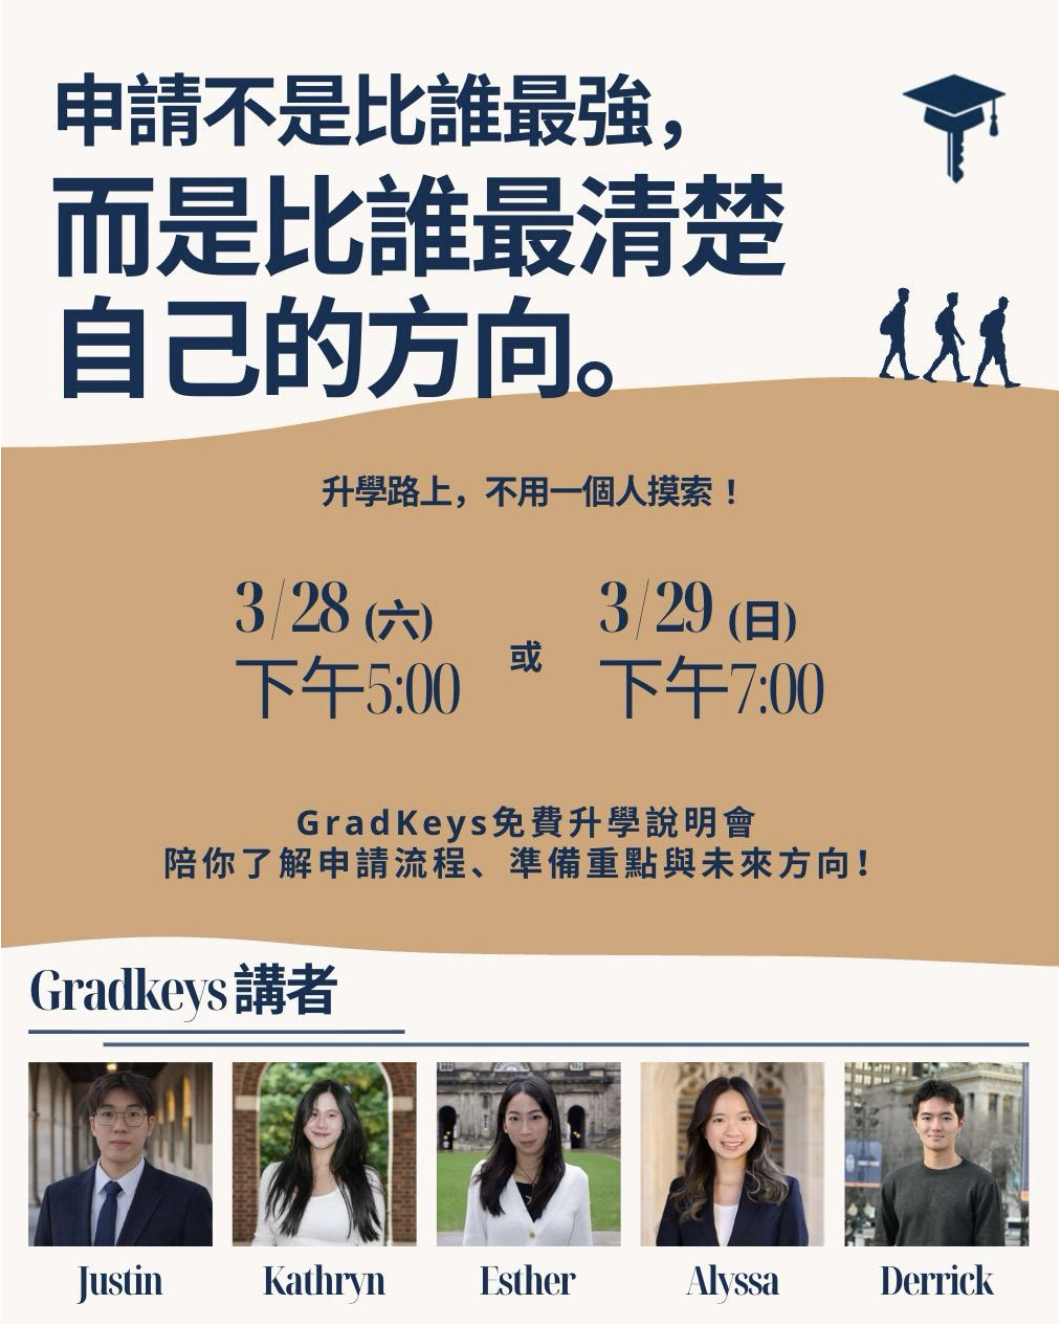
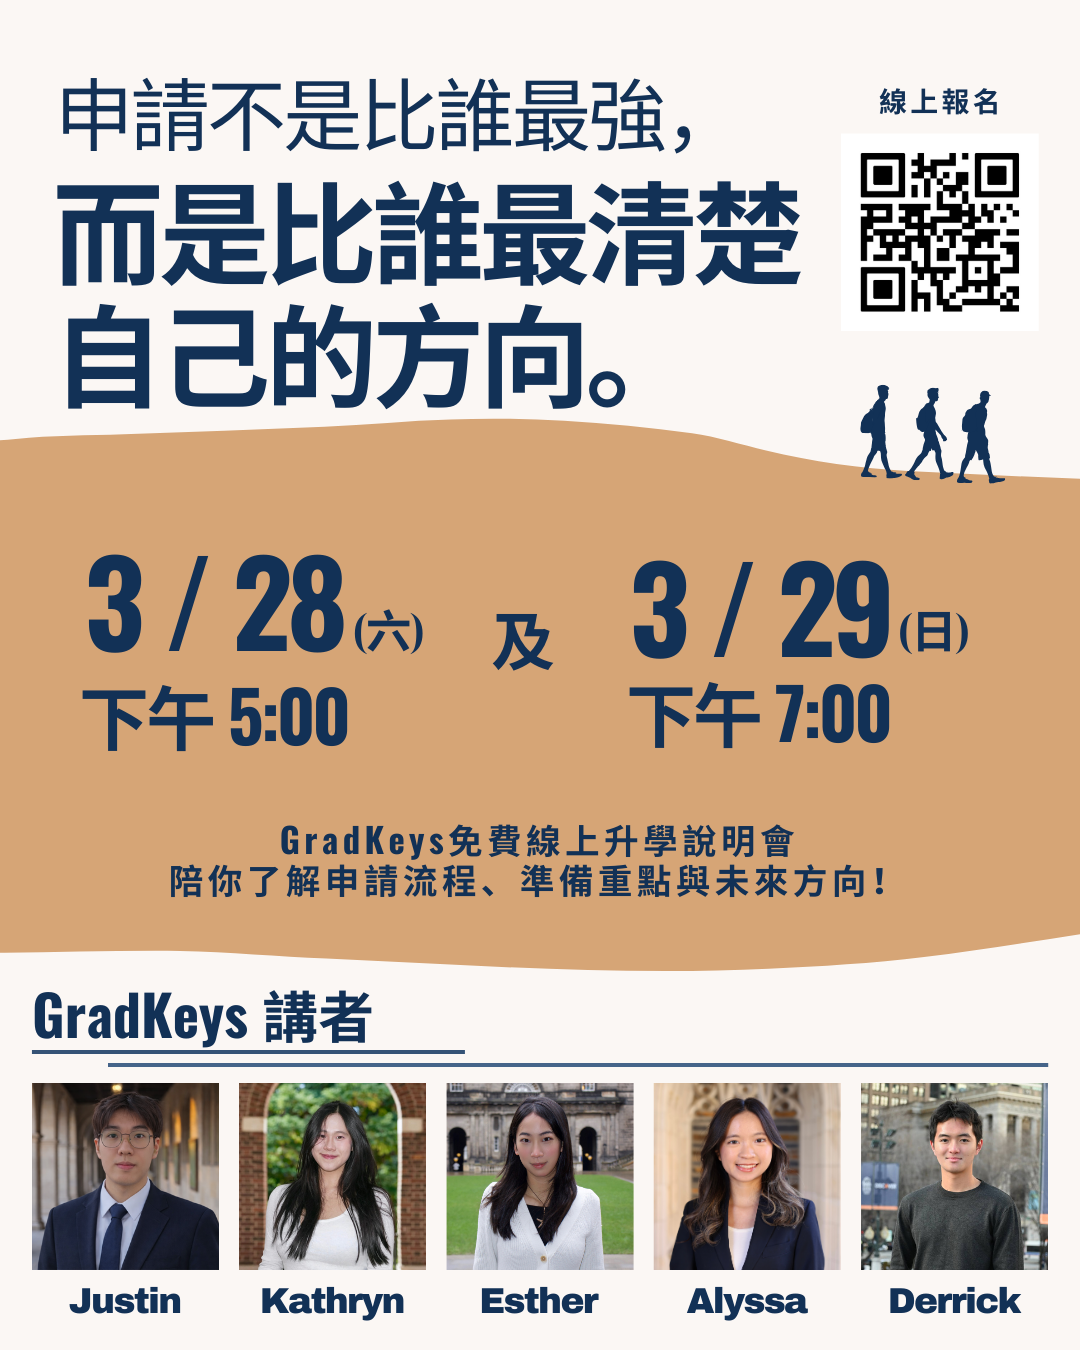
feat: fixed poster and content according to 3/15 meeting

diff --git a/why-us.html b/why-us.html
@@ -60,7 +60,7 @@
         <div class="event-main-card">
           <div class="event-main-copy">
             <span class="event-badge">GradKeys Free Session</span>
-            <h2>Applications are not about who is strongest.</h2>
+            <h2>Applications are not about who is smartest.</h2>
             <h3>
               They are about who understands their direction most clearly.
             </h3>
@@ -73,7 +73,7 @@
             <div class="event-info-grid">
               <div class="event-info-item">
                 <span class="event-info-label">Format</span>
-                <p>Online information session</p>
+                <p>Online Google Meet</p>
               </div>
               <div class="event-info-item">
                 <span class="event-info-label">Who should join</span>
@@ -85,7 +85,14 @@
               </div>
               <div class="event-info-item">
                 <span class="event-info-label">Registration</span>
-                <p>Required through the Monday form</p>
+                <p>
+                  Required through the
+                  <a
+                    href="https://forms.monday.com/forms/57e77b66b3bd3a993b3e9fe6fab4390d?r=euc1"
+                    target="_blank"
+                    >Monday Form</a
+                  >
+                </p>
               </div>
             </div>
           </div>
@@ -102,6 +109,7 @@
             </div>
             <a
               href="https://forms.monday.com/forms/57e77b66b3bd3a993b3e9fe6fab4390d?r=euc1"
+              target="_blank"
               class="btn btn-primary register-full"
             >
               Register Here!
@@ -165,7 +173,7 @@
       </div>
     </section>
 
-    <section class="section speaker-section">
+    <!-- <section class="section speaker-section">
       <div class="container">
         <div class="section-heading">
           <h2>GradKeys Speakers</h2>
@@ -199,7 +207,7 @@
           </div>
         </div>
       </div>
-    </section>
+    </section> -->
     <section class="section cta-section">
       <div class="container">
         <div class="cta-box">
